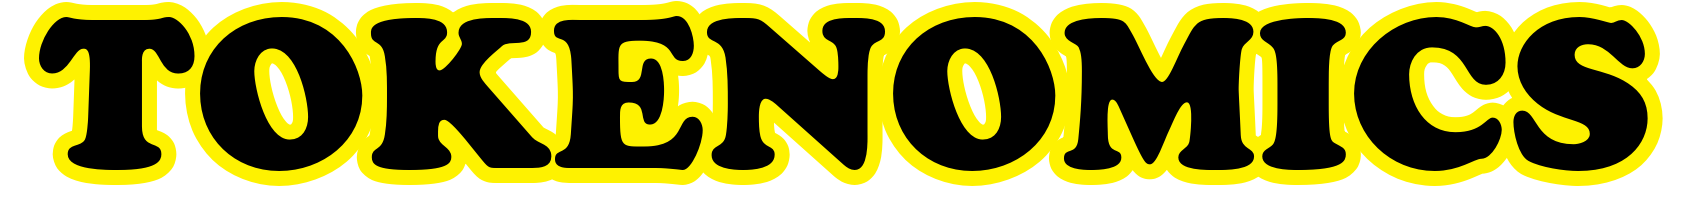
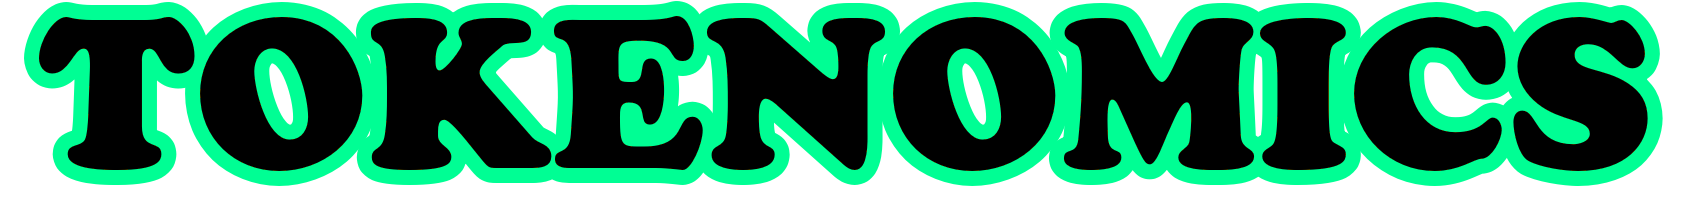
update

diff --git a/index.html b/index.html
@@ -28,6 +28,17 @@
         grid-template-columns: 1fr;
         justify-items: center;
       }
+      .about__ca {
+        width: 100%;
+        color: #000;
+        font-size: 0.95rem;
+        font-weight: 700;
+        line-height: 1.35;
+        word-break: break-all;
+      }
+      .how__card p {
+        overflow-wrap: anywhere;
+      }
       @media (max-width: 47.99875em) {
         .hero__content {
           padding-bottom: 4.5rem;
@@ -111,7 +122,7 @@
                 </a>
               </div>
               <a
-                href="https://x.com/spacexinu_sol"
+                href="https://pump.fun/coin/Bsibkcq5dUkUqBhnBZ4qSxnw3VL37RaMkHvreKi9pump"
                 target="_blank"
                 class="header__button"
                 >BUY NOW!</a
@@ -130,7 +141,7 @@
               </div>
               <a
                 target="_blank"
-                href="https://x.com/spacexinu_sol"
+                href="https://pump.fun/coin/Bsibkcq5dUkUqBhnBZ4qSxnw3VL37RaMkHvreKi9pump"
                 class="hero__button"
               >
                 <img src="img/hero/BuyButton.png" alt="BUY NOW" />
@@ -236,9 +247,12 @@
                   the moon — one community, one ticker, and a ride from the
                   ground all the way past the stars.
                 </p>
+                <p class="about__ca">
+                  CA: Bsibkcq5dUkUqBhnBZ4qSxnw3VL37RaMkHvreKi9pump
+                </p>
                 <a
                   target="_blank"
-                  href="https://x.com/spacexinu_sol"
+                  href="https://pump.fun/coin/Bsibkcq5dUkUqBhnBZ4qSxnw3VL37RaMkHvreKi9pump"
                   >BUY NOW!</a
                 >
               </div>
@@ -291,8 +305,8 @@
               >
                 <h3>Swap for $SI</h3>
                 <p>
-                  Open a Solana swap, select SOL, paste the official $SI mint,
-                  enter the amount, and confirm the transaction.
+                  On pump.fun, swap SOL for $SI with contract
+                  Bsibkcq5dUkUqBhnBZ4qSxnw3VL37RaMkHvreKi9pump.
                 </p>
               </article>
               <article
@@ -303,8 +317,9 @@
               >
                 <h3>Add the Token</h3>
                 <p>
-                  If $SI is not visible yet, import it in Phantom with the
-                  official mint address and check the swap under Activity.
+                  If $SI is not visible yet, import
+                  Bsibkcq5dUkUqBhnBZ4qSxnw3VL37RaMkHvreKi9pump in Phantom and
+                  check the swap under Activity.
                 </p>
               </article>
             </div>
@@ -483,7 +498,7 @@
               </div>
               <div class="join__actions">
                 <a
-                  href="https://x.com/spacexinu_sol"
+                  href="https://pump.fun/coin/Bsibkcq5dUkUqBhnBZ4qSxnw3VL37RaMkHvreKi9pump"
                   target="_blank "
                   class="join__button"
                 >

diff --git a/css/style.min.css b/css/style.min.css
@@ -122,7 +122,7 @@ h6 {
   transition: color 0.2s ease 0s;
 }
 .menu__link._navigator-active {
-  color: #fef200;
+  color: #14F195;
 }
 .icon-menu {
   display: none;
@@ -213,7 +213,7 @@ h6 {
   z-index: 2;
   flex-shrink: 0;
   border-radius: 0.625rem;
-  background-color: #fef200;
+  background-color: #14F195;
   display: flex;
   align-items: center;
   justify-content: center;
@@ -606,7 +606,7 @@ h6 {
   line-height: 1;
 }
 .yellow .line__row span {
-  color: #fef200;
+  color: #14F195;
 }
 .about {
   position: relative;
@@ -1368,7 +1368,7 @@ h6 {
     position: absolute;
     width: 100%;
     height: 0.125rem;
-    background-color: #fef200;
+    background-color: #14F195;
   }
   .icon-menu::before {
     top: 0;
@@ -1811,28 +1811,28 @@ h6 {
 }
 @media (any-hover: hover) {
   .menu__link:hover {
-    color: #fef200;
+    color: #14F195;
   }
   .header__social-item:hover svg {
     -webkit-transform: scale(0.9);
     transform: scale(0.9);
   }
   .header__social-item:hover svg path {
-    fill: #fef200;
+    fill: #14F195;
   }
   .header__button:hover {
     -webkit-transform: scale(0.95);
     transform: scale(0.95);
   }
   .footer__top-menu-item:hover {
-    color: #fef200;
+    color: #14F195;
   }
   .footer__top-socail-item:hover svg {
     -webkit-transform: scale(0.9);
     transform: scale(0.9);
   }
   .footer__top-socail-item:hover svg path {
-    fill: #fef200;
+    fill: #14F195;
   }
   .footer__bottom-body a:hover span {
     text-decoration: underline;
